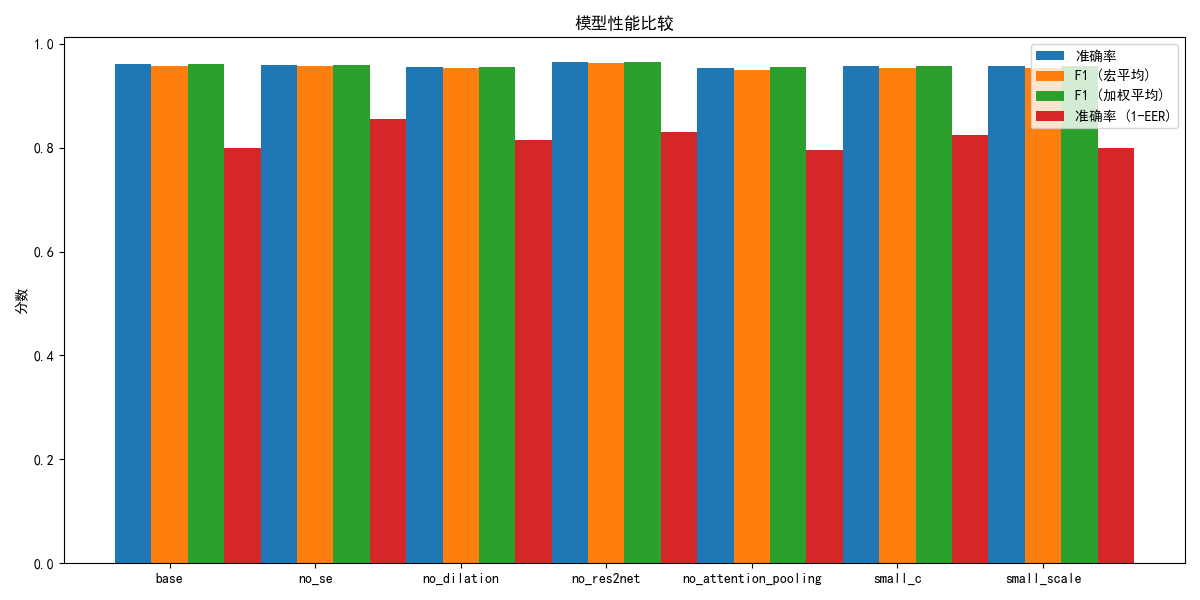
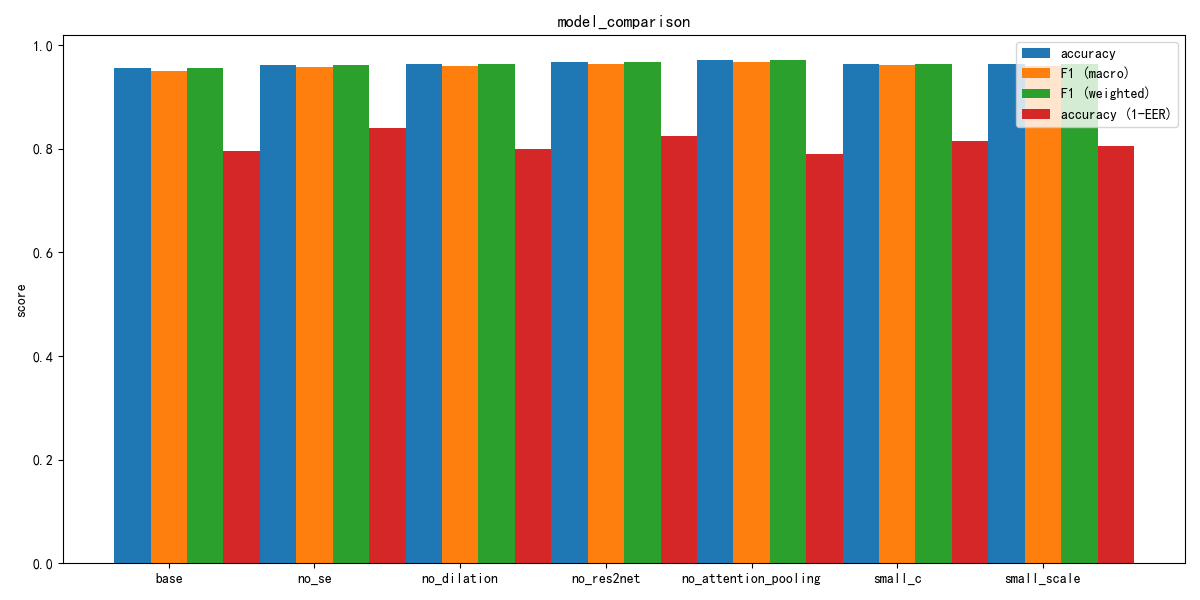
改英文

diff --git a/ECAPA-TDNN消融.py b/ECAPA-TDNN消融.py
@@ -1053,33 +1053,33 @@ def visualize_training_history(histories, names):
     # 绘制训练损失
     for history, name in zip(histories, names):
         axs[0, 0].plot(history['train_loss'], label=name)
-    axs[0, 0].set_title('训练损失')
-    axs[0, 0].set_xlabel('轮次')
-    axs[0, 0].set_ylabel('损失')
+    axs[0, 0].set_title('train_loss')
+    axs[0, 0].set_xlabel('Epoch')
+    axs[0, 0].set_ylabel('loss')
     axs[0, 0].legend()
 
     # 绘制验证损失
     for history, name in zip(histories, names):
         axs[0, 1].plot(history['val_loss'], label=name)
-    axs[0, 1].set_title('验证损失')
-    axs[0, 1].set_xlabel('轮次')
-    axs[0, 1].set_ylabel('损失')
+    axs[0, 1].set_title('val_loss')
+    axs[0, 1].set_xlabel('Epoch')
+    axs[0, 1].set_ylabel('loss')
     axs[0, 1].legend()
 
     # 绘制训练准确率
     for history, name in zip(histories, names):
         axs[1, 0].plot(history['train_acc'], label=name)
-    axs[1, 0].set_title('训练准确率')
-    axs[1, 0].set_xlabel('轮次')
-    axs[1, 0].set_ylabel('准确率')
+    axs[1, 0].set_title('train_acc')
+    axs[1, 0].set_xlabel('Epoch')
+    axs[1, 0].set_ylabel('accuracy')
     axs[1, 0].legend()
 
     # 绘制验证准确率
     for history, name in zip(histories, names):
         axs[1, 1].plot(history['val_acc'], label=name)
-    axs[1, 1].set_title('验证准确率')
-    axs[1, 1].set_xlabel('轮次')
-    axs[1, 1].set_ylabel('准确率')
+    axs[1, 1].set_title('val_acc')
+    axs[1, 1].set_xlabel('Epoch')
+    axs[1, 1].set_ylabel('accuracy')
     axs[1, 1].legend()
 
     plt.tight_layout()
@@ -1105,13 +1105,13 @@ def visualize_model_comparison(results, names):
     x = np.arange(len(names))
     width = 0.25
 
-    ax.bar(x - width, accuracies, width, label='准确率')
-    ax.bar(x, f1_macros, width, label='F1 (宏平均)')
-    ax.bar(x + width, f1_weighteds, width, label='F1 (加权平均)')
-    ax.bar(x + 2 * width, [1 - result['eer'] for result in results], width, label='准确率 (1-EER)')
+    ax.bar(x - width, accuracies, width, label='accuracy')
+    ax.bar(x, f1_macros, width, label='F1 (macro)')
+    ax.bar(x + width, f1_weighteds, width, label='F1 (weighted)')
+    ax.bar(x + 2 * width, [1 - result['eer'] for result in results], width, label='accuracy (1-EER)')
 
-    ax.set_ylabel('分数')
-    ax.set_title('模型性能比较')
+    ax.set_ylabel('score')
+    ax.set_title('model_comparison')
     ax.set_xticks(x)
     ax.set_xticklabels(names)
     ax.legend()
